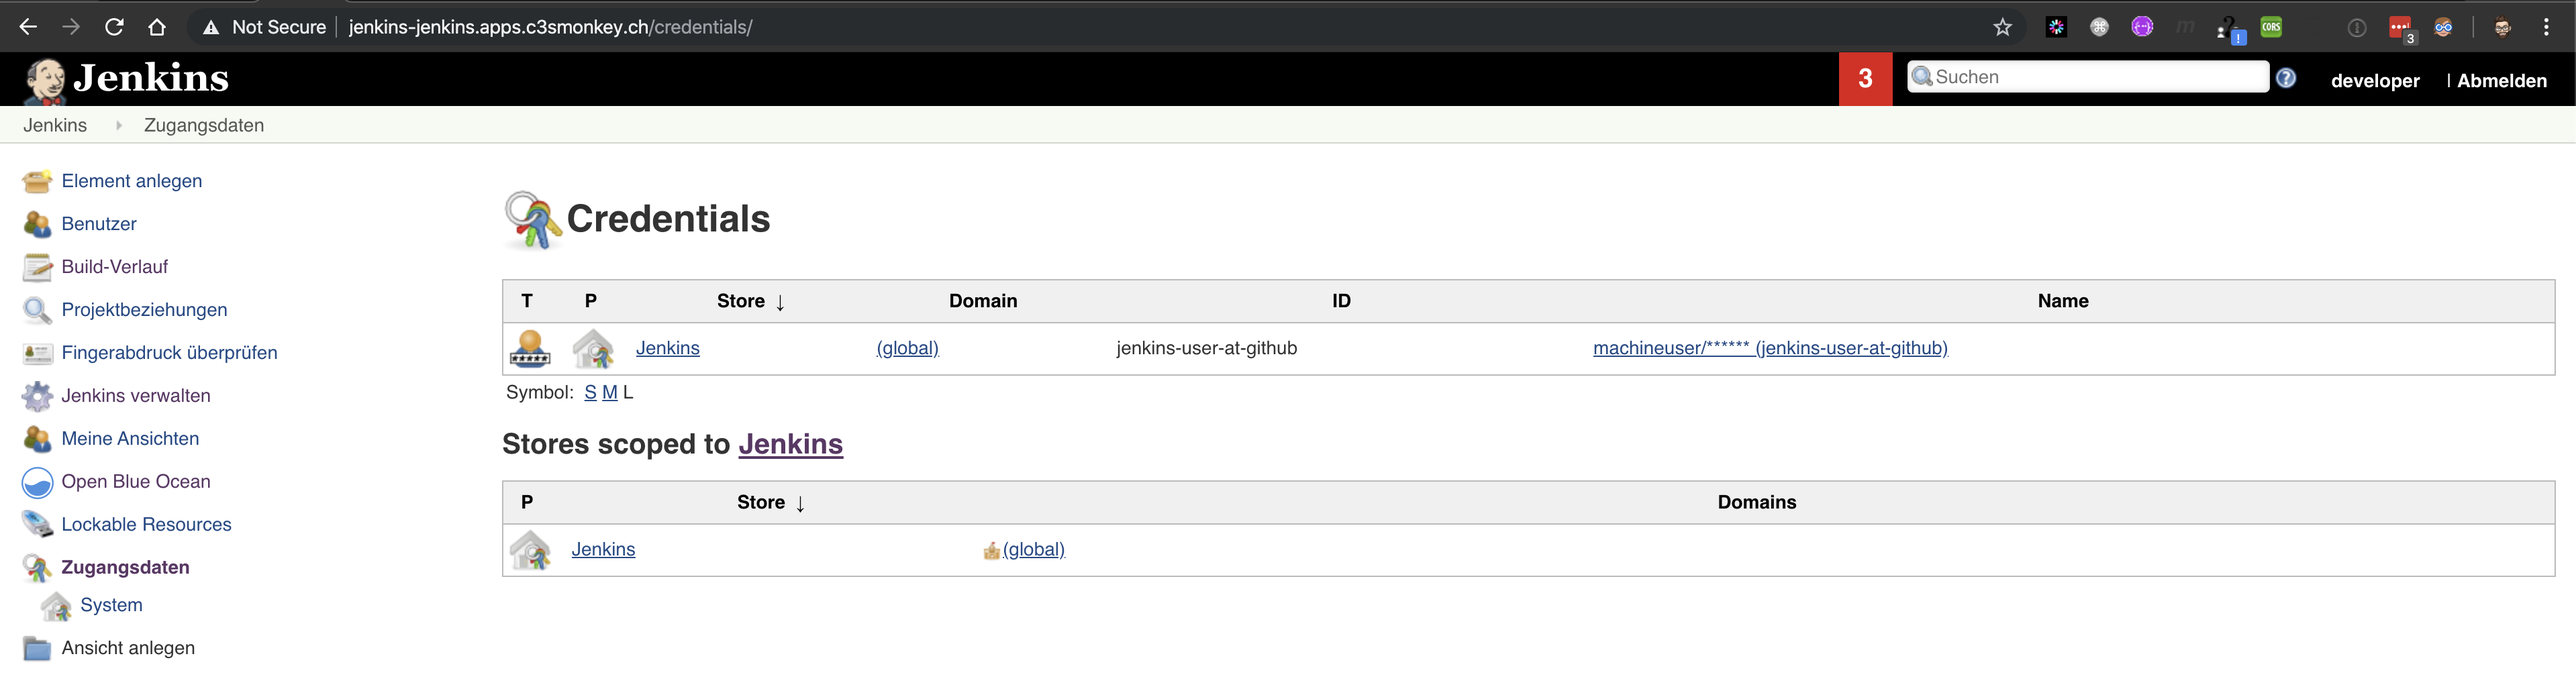
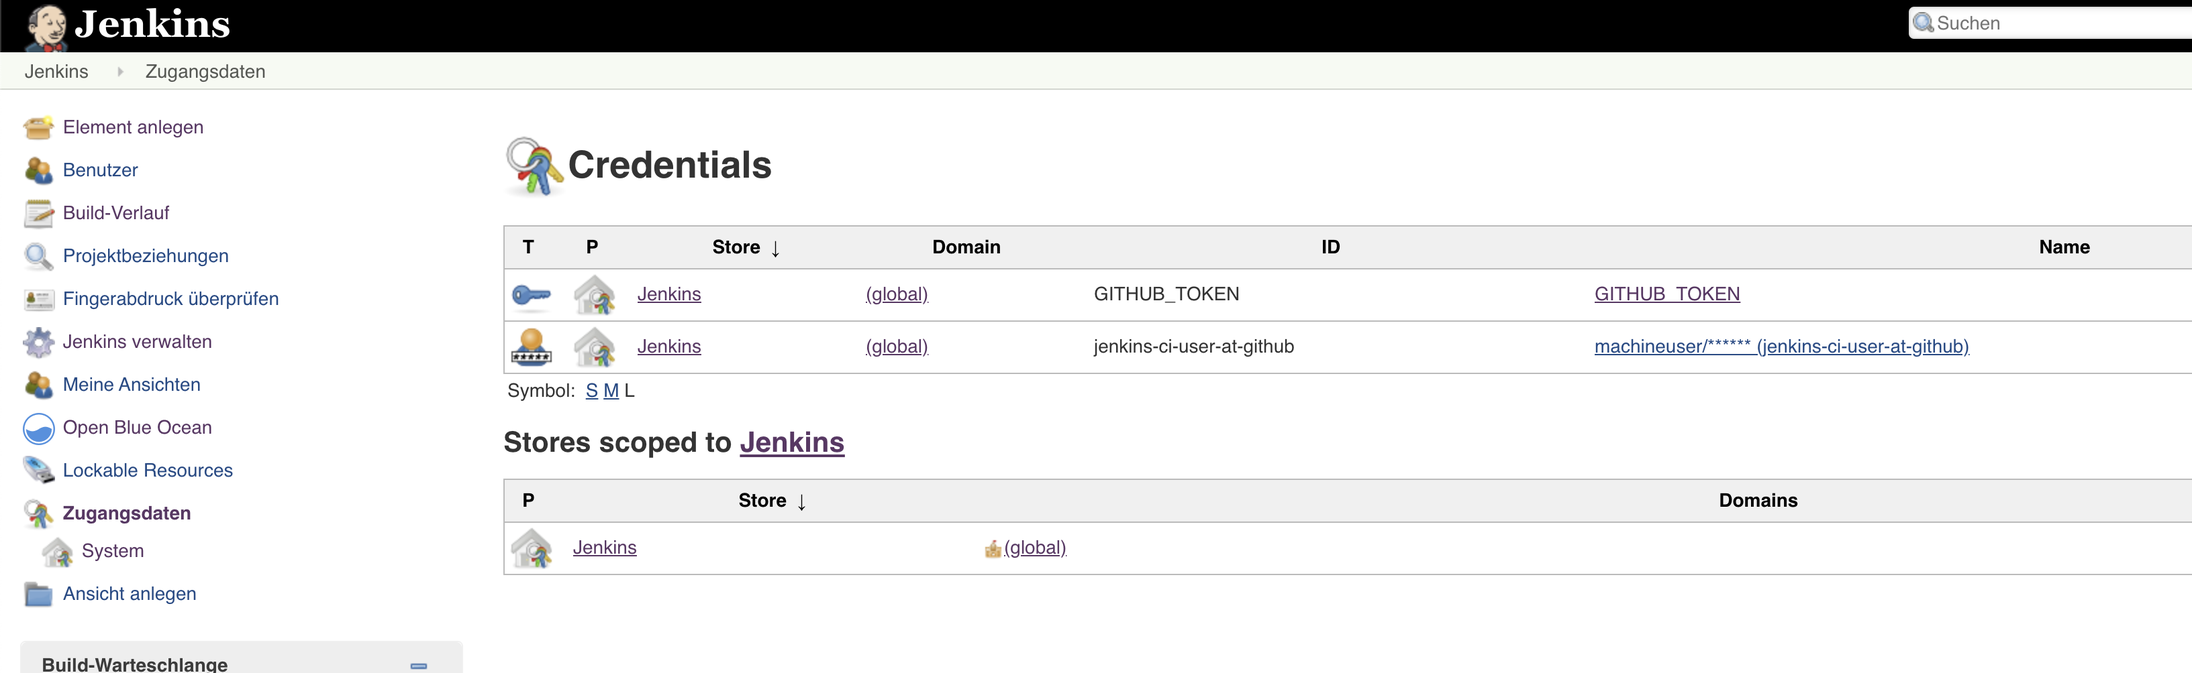
Polishing.

diff --git a/_posts/2019/2019-09-08-openshift-semantic-release-with-jenkins-maven-fabric8-delivery-pipeline.md b/_posts/2019/2019-09-08-openshift-semantic-release-with-jenkins-maven-fabric8-delivery-pipeline.md
@@ -85,28 +85,32 @@ $ oc describe bc/customer-service-pipeline -n jenkins
 ## Private Repository access with secrets <a name="privateRepo"></a>
 Create a `generic secret` link this secret with the `builder`.
 Annotate and label it for the Jenkins sync PlugIn. And finally update the `bc/customer-service-pipeline` with this secret.
+First you have to create an `AccessToken` in your [GitHub Tokens Settings](https://github.com/settings/tokens){:target="_blank"} let it named like `openshift-source-builder`
+add 'repo' and 'user' access because this token will be used for our semantic versioning / release.
+ ![openshift-source-builder-github-token](/assets/img/2019/openshift-semantic-release-with-jenkins-maven-fabric8-delivery-pipeline/openshift-source-builder-github-token.png)
+
+ 
 ```bash
-$ oc create secret generic user-at-github \
+$ oc create secret generic ci-user-at-github \
       --from-literal=username=machineuser \
       --from-literal=password=<accesstoken> \
       --type=kubernetes.io/basic-auth \
       -n jenkins
-$ oc secrets link builder user-at-github \
+$ oc secrets link builder ci-user-at-github \
     -n jenkins
-$ oc annotate secret/user-at-github \
+$ oc annotate secret/ci-user-at-github \
       'build.openshift.io/source-secret-match-uri-1=https://github.com/marzelwidmer/*' \
     -n jenkins
-$ oc label secret user-at-github credential.sync.jenkins.openshift.io=true \
+$ oc label secret ci-user-at-github credential.sync.jenkins.openshift.io=true \
     -n jenkins
-$ oc set build-secret bc/customer-service-pipeline user-at-github --source
+$ oc set build-secret bc/customer-service-pipeline ci-user-at-github --source
 ```
-When you check now the Jenkins you will see the `jenkins-user-at-github` under credentials `https://<jenkins-url>/credentials/` 
+When you check now the Jenkins you will see the `ci-user-at-github` under credentials `https://<jenkins-url>/credentials/` 
 
 ![sync.jenkins](/assets/img/2019/openshift-semantic-release-with-jenkins-maven-fabric8-delivery-pipeline/sync.jenkins.openshift.io.png)
 
-And also in the OpenShift console you can find the secret `jenkins-user-at-github` in the 'jenkins' project.  
-
-![secret-at-github](/assets/img/2019/openshift-semantic-release-with-jenkins-maven-fabric8-delivery-pipeline/secret-user-at-github.png)
+You will also find the a secret `ci-user-at-github` in the `jenkins`  project in the OpenShift console.
+![secret-ci-user-at-github](/assets/img/2019/openshift-semantic-release-with-jenkins-maven-fabric8-delivery-pipeline/secret-ci-user-at-github.png)
 
 
 ### Add Global Credentials for Semantic Release
